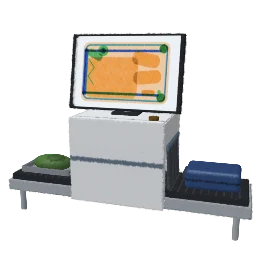
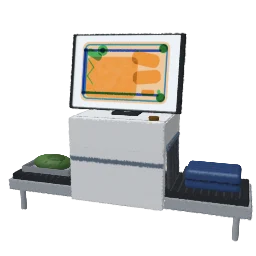
Phase Imaging r2: an even X-ray screen and cleaner cooling steps
The X-ray screen's pale background is now an even grid just in front of
the bezel (the old panel z-fought it and showed as static), with the
pictures a little in front of it. The thermal camera's tea steps from hot
to warm to cooled with short blends. Clips are on Effect review page 2.

Claude-Session: https://claude.ai/code/session_01DyskmMrhX4jeS7kGy8wNU4

diff --git a/src/packs/imaging.js b/src/packs/imaging.js
@@ -41,11 +41,11 @@ const span = (x, a, b) => clamp((x - a) / (b - a), 0, 1);
 // screen: its center, its right and up directions (unit) and its width.
 // pixel(i, j) gives [r, g, b] (0..1) or null; extra fields go on each splat
 // (part, kind, params, channel).
-function screenSplats(k, { W, H, center, right, up, width, pixel, extra }) {
+function screenSplats(k, { W, H, center, right, up, width, pixel, extra, fill = 0.62 }) {
   const pitch = width / W;
   const n = vec.unit(vec.cross(right, up));
   const q = basisQuat(right, up, n);
-  const s = pitch * 0.62;
+  const s = pitch * fill;
   // Exactly one splat per pixel, whatever the budget.
   k.cloud({ count: W * H * (160000 / k.count), jitter: 0 }, (rand, idx) => {
     const i = idx % W;
@@ -567,19 +567,21 @@ function buildXray(k) {
     color: (c) => lit("#2a2d31", c.n, 0.3),
     even: true,
   });
-  // The screen's pale background, under the pictures.
-  k.add(evenBox(S.w, S.h, 0.004), {
-    pos: vec.add(S.center, vec.mul(normal, -0.004)),
-    rot: [-S.tilt, 0, 0],
-    color: XR_BG.map((v) => v * 0.97),
-    even: true,
-    flat: 0.1,
-    jitter: 0,
-    pattern: false,
+  // The screen's pale background, under the pictures: an even grid (a
+  // sampled box left grain between the pictures).
+  screenSplats(k, {
+    W: XR.W / 2,
+    H: XR.H / 2,
+    center: vec.add(S.center, vec.mul(normal, -0.001)),
+    right,
+    up,
+    width: S.w,
+    pixel: () => XR_BG.map((v) => v * 0.97),
+    fill: 0.9,
   });
   // The pictures, one part each; each builds in as its bag crosses the beam
   // (a fade on channel i % 2, so one picture can show while the next builds).
-  const face = vec.add(S.center, vec.mul(normal, 0.004));
+  const face = vec.add(S.center, vec.mul(normal, 0.03));
   BAGS.forEach((bag, b) => {
     const pic = xrayPicture(bag, XR.W, XR.H, XR.win, (x, y, z) => k.noise.fbm(x, y, z + b * 7, 3));
     const part = k.part(`pic${b}`);
@@ -2021,9 +2023,13 @@ function driveThermal(t, c, out, info) {
   // The tea cools from 72 to 34 degrees over about 24 seconds (minutes in
   // real life), sped up.
   const x = thermalOn.at === null ? 0 : clamp((t - thermalOn.at) / 24, 0, 1);
-  const w1 = x < 0.5 ? 1 - 2 * x : 0;
-  const w2 = x < 0.5 ? 2 * x : 2 - 2 * x;
-  const w3 = x < 0.5 ? 0 : 2 * x - 1;
+  // Each step blends into the next quickly: two copies half shown at once
+  // look grainy (the owner's note of October 5, 2026).
+  const a = smoothstep(0.4, 0.48, x);
+  const b = smoothstep(0.82, 0.9, x);
+  const w1 = 1 - a;
+  const w2 = a - b;
+  const w3 = b;
   out.morph = [v, v * w1, v * w2, v * w3];
   out.amount = 1 - 0.85 * x;
 }

diff --git a/docs/handoff/Imaging.md b/docs/handoff/Imaging.md
@@ -9,11 +9,12 @@ port 4173 (no `SPLASHERY_PORT`), messages arrive in your session as "From the Op
 comments), you finish every working turn with a final message that starts "READY:", "WORKING:" or
 "BLOCKED:" (and keep the same line at the top of "## State
 
-WORKING: Imaging r2 (October 5, 2026, Opus 5.5), PR #304 on `claude/lane-imaging` (restarted from
-main after #275 merged). The owner marked all ten clips "fix" with notes: sharper and less grainy
-everywhere; night-vision and infrared "visions" beside the realistic gray (microscope, MRI, walnut);
-and "virtually any toy" in How CT works. All three are built and pushed; the `-r2` clips are being
-rendered for Effect review page 2.
+READY: Imaging r2 (October 5, 2026, Opus 5.5), PR #304 on `claude/lane-imaging`, main merged
+(7ba9b56f). The owner's ten "fix" notes are answered: every toy sharper and less grainy,
+night-vision and infrared visions beside the realistic gray (microscope, MRI, walnut), and 19 other
+toys can lie in the CT scanner. Thirteen `-r2` and new cards are on Effect review page 2 (the old
+cards marked replaced). Specs run: `tests/img.spec.mjs`, `tests/kit.spec.mjs`, `tests/taps.spec.mjs`
+(62 passed); Prettier and the American English check are clean. The full suite is the Integrator's.
 
 - [x] 1. Airport X-ray scanner (`airport-xray`)
 - [x] 2. How CT works (`how-ct`): a kit-built nautilus shell
@@ -64,7 +65,11 @@ rendered for Effect review page 2.
 
 ## For the Operator
 
-- Effect review page 2 has no `lanes/Imaging` record yet; the cards use lane id `Imaging`.
+- r2 lessons for PACKS.md: a flat panel behind a picture of splats must sit clearly in front of what
+  is behind it (the X-ray screen's background z-fought the bezel and showed as static), and a
+  picture layer needs a few hundredths of a unit in front of its background, or the sort lets the
+  background wash it out. Crossfading two copies of a scene built from different random samples
+  looks grainy halfway; keep such blends short.
 - For PACKS.md (section 5, after the levers): the `volume` kind and `out.volume`, as in the Notes
   above; and that `out.view` zoom steps need `focus: () => false` when the toy has no focus of its
   own.

diff --git a/docs/TOY-PLAN.md b/docs/TOY-PLAN.md
@@ -2986,7 +2986,7 @@ Proposals below are suggestions; the owner may change them.
     bag's X-ray picture line by line as it crosses the beam, in the scanner's colors (organic
     orange, inorganic green, metal blue, dense black). A tap sends the next bag.
   - Improved: Imaging: new toy. Imaging r2: sharper (the labs sharp kernel, twice the splats, a 180
-    by 120 X-ray picture).
+    by 120 X-ray picture on an even pale screen).
   - Sound: The belt's low rumble, the curtains' slap and the scanner's soft beep when the picture is
     done.
 - **How CT works** (`how-ct`). Now: tap: Scan or undo the scan. Plan: keep.
@@ -3038,6 +3038,8 @@ Proposals below are suggestions; the owner may change them.
     crossfades from normal colors to the thermal camera's false colors (the iron palette), and the
     tea cools from about 72 to 34 °C over about 24 seconds while its steam thins; the warmer stays
     warm and the ice water cold. A second tap goes back to normal colors.
-  - Improved: Imaging: new toy. Imaging r2: sharper (the labs sharp kernel, twice the splats).
+  - Improved: Imaging: new toy. Imaging r2: sharper (the labs sharp kernel, twice the splats); the
+    tea steps from hot to warm to cooled with short blends (a long crossfade of two copies looked
+    grainy).
   - Sound: The camera's shutter clicking twice as it calibrates and a soft tick; a lower click as it
     turns off.
